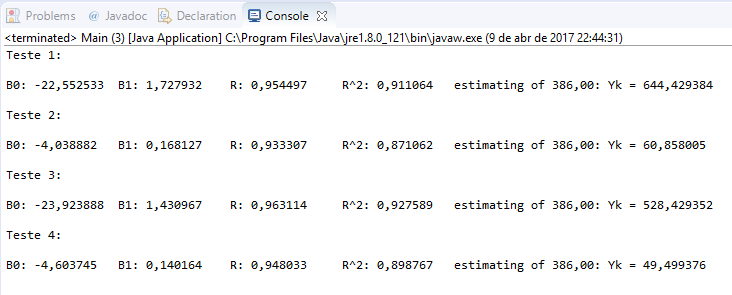
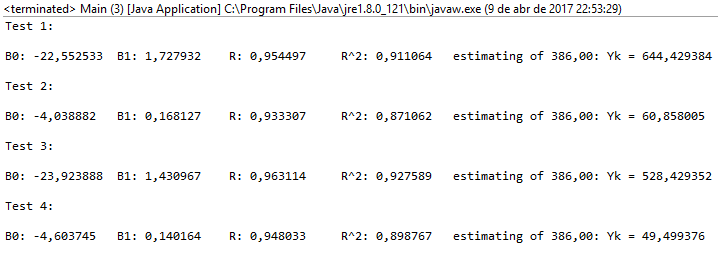
Just a quick update

diff --git a/SourceCode/src/PSP/ProgramThree/Main.java b/SourceCode/src/PSP/ProgramThree/Main.java
@@ -25,7 +25,7 @@ public class Main {
 	
 	OrderedPair teste1 = new OrderedPair(estimatedProxySize, actualAddedAndModifiedSize);
 	
-	System.out.println("Teste 1: \n");
+	System.out.println("Test 1: \n");
 	System.out.print("B0: " + decimalFormat.format(LinearRegression.calculateBeta0(teste1)) + "\t");
 	System.out.print("B1: " + decimalFormat.format(LinearRegression.calculateBeta1(teste1)) + "\t");
 	System.out.print("R: " + decimalFormat.format(LinearRegression.calculateR(teste1)) + "\t");	
@@ -36,7 +36,7 @@ public class Main {
 	
 	OrderedPair teste2 = new OrderedPair(estimatedProxySize, actualDevelopmentHours);
 	
-	System.out.println("\n\nTeste 2: \n");
+	System.out.println("\n\nTest 2: \n");
 	System.out.print("B0: " + decimalFormat.format(LinearRegression.calculateBeta0(teste2)) + "\t");
 	System.out.print("B1: " + decimalFormat.format(LinearRegression.calculateBeta1(teste2)) + "\t");
 	System.out.print("R: " + decimalFormat.format(LinearRegression.calculateR(teste2)) + "\t");	
@@ -45,7 +45,7 @@ public class Main {
 	
 	OrderedPair teste3 = new OrderedPair(planAddedAndModifiedSize, actualAddedAndModifiedSize);
 	
-	System.out.println("\n\nTeste 3: \n");
+	System.out.println("\n\nTest 3: \n");
 	System.out.print("B0: " + decimalFormat.format(LinearRegression.calculateBeta0(teste3)) + "\t");
 	System.out.print("B1: " + decimalFormat.format(LinearRegression.calculateBeta1(teste3)) + "\t");
 	System.out.print("R: " + decimalFormat.format(LinearRegression.calculateR(teste3)) + "\t");	
@@ -54,7 +54,7 @@ public class Main {
 	
 	OrderedPair teste4 = new OrderedPair(planAddedAndModifiedSize, actualDevelopmentHours);
 	
-	System.out.println("\n\nTeste 4: \n");
+	System.out.println("\n\nTest 4: \n");
 	System.out.print("B0: " + decimalFormat.format(LinearRegression.calculateBeta0(teste4)) + "\t");
 	System.out.print("B1: " + decimalFormat.format(LinearRegression.calculateBeta1(teste4)) + "\t");
 	System.out.print("R: " + decimalFormat.format(LinearRegression.calculateR(teste4)) + "\t");	
